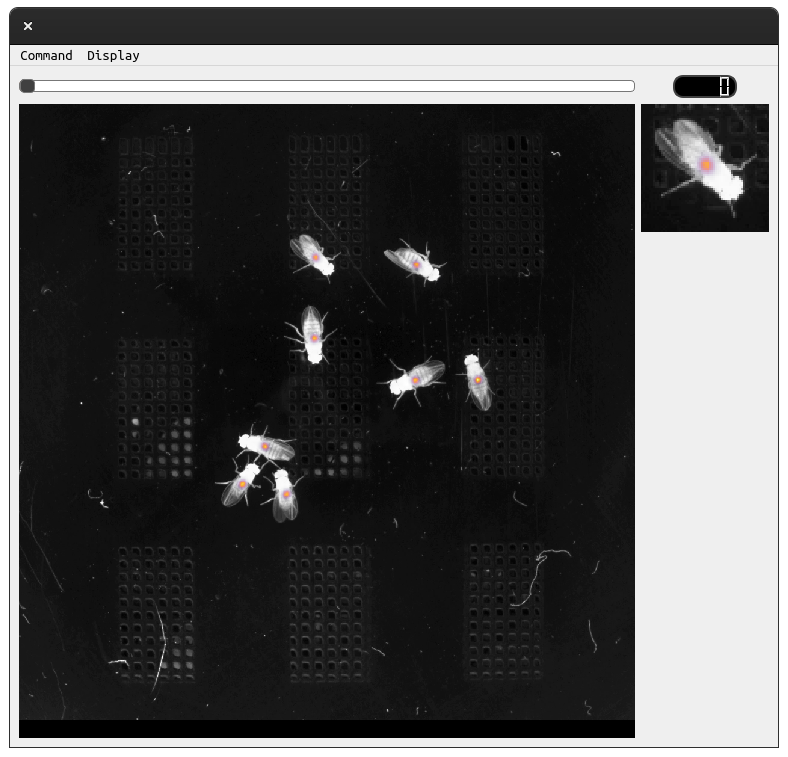
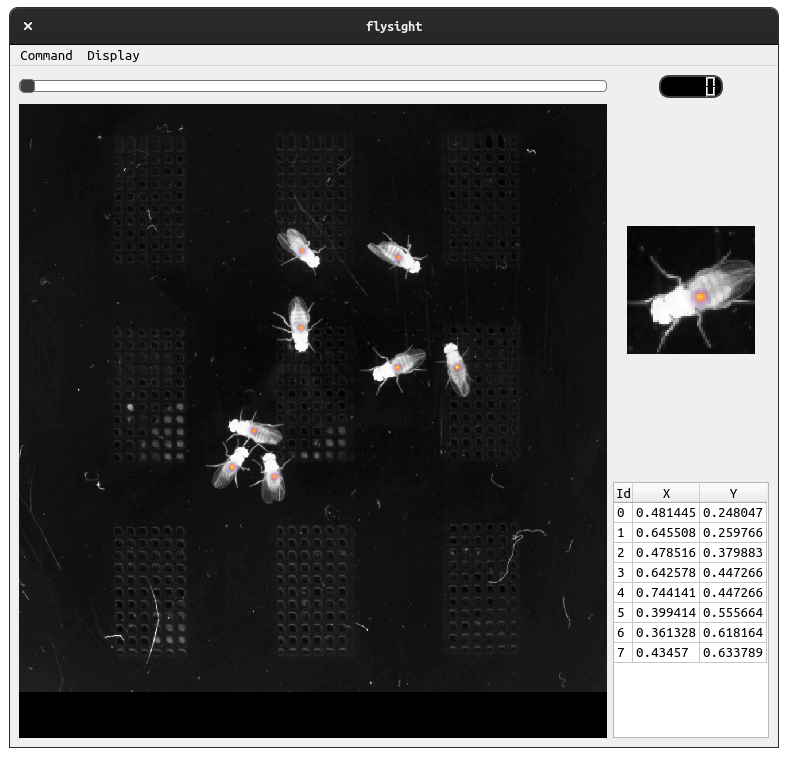
Reorg and many features.

diff --git a/flysight/client/main.py b/flysight/client/main.py
@@ -7,11 +7,16 @@ from PySide2 import (
         QtCore,
         QtGui,
         )
-from flytrack.config import Config
-from flytrack.client import Client
-from flytrack.client.display_main import DisplayMain
-from flytrack.client.display_zoom import DisplayZoom
-from flytrack.client.resource_loader import Resource
+from flysight.config import Config
+from flysight.client import Client
+from flysight.client.display_main import DisplayMain
+from flysight.client.display_zoom import DisplayZoom
+from flysight.client.display_table import (
+        TrackerTableView,
+        TrackerTableModel,
+        )
+from flysight.client.resource_loader import Resource
+
 
 
 class MainDisplay(QtWidgets.QMainWindow):
@@ -23,8 +28,6 @@ class MainDisplay(QtWidgets.QMainWindow):
     """
     def __init__(self, video=None):
         super().__init__()
-        if video:
-            self.load_video(video)
 
         self.frame_count  = 0
         self.frame_width  = 0
@@ -37,6 +40,9 @@ class MainDisplay(QtWidgets.QMainWindow):
 
         # Configure UI
         self.setup_ui()
+
+        if video:
+            self.load_video(video)
 
         # Initialize to frame 0.
         self.changed_frame_index()
@@ -61,6 +67,24 @@ class MainDisplay(QtWidgets.QMainWindow):
         # configure the layout.
         self.central = QtWidgets.QWidget(self)
         self.setCentralWidget(self.central)
+
+        # Layout organization:
+        #
+        # A - Slider
+        # B - LCD
+        # C - Main Display
+        # D - Zoom
+        # E - Tabular peak data.
+        #
+        # +---+---+---+
+        # | A  A  | B |
+        # +---+---+---+
+        # | C   C | D |
+        # +       +   |
+        # | C   C | E |
+        # +---+---+---+
+        #
+        # addWidget(... fromRow, fromColumn, rowSpan, columnSpan)
         self.layout = QtWidgets.QGridLayout(self.central)
 
         # {
@@ -70,17 +94,17 @@ class MainDisplay(QtWidgets.QMainWindow):
         self.slider.setOrientation(QtCore.Qt.Horizontal)
         self.slider.setMaximum(self.frame_count)
         self.slider.setSizePolicy(
-                QtWidgets.QSizePolicy(QtWidgets.QSizePolicy.Minimum,
-                                      QtWidgets.QSizePolicy.Minimum))
+                QtWidgets.QSizePolicy(QtWidgets.QSizePolicy.Expanding,
+                                      QtWidgets.QSizePolicy.Fixed))
         self.slider.setStyleSheet(Resource.Get('slider'))
-        self.layout.addWidget(self.slider, 0, 0, 1, 1)
+        self.layout.addWidget(self.slider, 0, 0, 1, 2)
 
         self.lcd = QtWidgets.QLCDNumber(self)
         self.lcd.setSizePolicy(
                 QtWidgets.QSizePolicy(QtWidgets.QSizePolicy.Fixed,
                                       QtWidgets.QSizePolicy.Fixed))
         self.lcd.setStyleSheet(Resource.Get('lcd'))
-        self.layout.addWidget(self.lcd, 0, 1, 1, 1,
+        self.layout.addWidget(self.lcd, 0, 2, 1, 1,
                               QtCore.Qt.AlignCenter)
 
         self.slider_blocked = False
@@ -121,13 +145,26 @@ class MainDisplay(QtWidgets.QMainWindow):
         self.zoom.setSizePolicy(
                 QtWidgets.QSizePolicy(QtWidgets.QSizePolicy.Fixed,
                                       QtWidgets.QSizePolicy.Fixed))
-        self.layout.addWidget(self.zoom, 1, 1, 1, 1, QtCore.Qt.AlignTop)
+        self.layout.addWidget(self.zoom, 1, 2, 1, 1, QtCore.Qt.AlignCenter)
 
         # Add the main display.
         self.display = \
                 DisplayMain(self, self.client, self.frame_width,
                             self.frame_height)
-        self.layout.addWidget(self.display, 1, 0, 1, 1)
+        self.layout.addWidget(self.display, 1, 0, 2, 2)
+
+        # {
+        # Add a table which is capable of displaying row/columns of the XY
+        # values for detected peaks.
+        table = TrackerTableView()
+        table.setSizePolicy(
+                QtWidgets.QSizePolicy(QtWidgets.QSizePolicy.Fixed,
+                                      QtWidgets.QSizePolicy.Fixed))
+        self.table_view = table
+        self.table = TrackerTableModel()
+        table.setModel(self.table)
+        self.layout.addWidget(table, 2, 2, 1, 1)
+        # }
 
         # {
         # Menu bar for the `Command` section.
@@ -186,6 +223,11 @@ class MainDisplay(QtWidgets.QMainWindow):
             print('Failed to read from video stream.')
         else:
             self.display.load_image(frame_idx, image)
+
+        # Load the peaks table.
+        self.table.load_data(list(enumerate(self.display.peaks)))
+        self.table_view.resizeColumnsToContents()
+        self.table_view.resizeRowsToContents()
 
     def update_zoom(self, image):
         """

diff --git a/flysight/client/display_table.py b/flysight/client/display_table.py
@@ -1,0 +1,133 @@
+from PySide2.QtCore import Qt, QAbstractTableModel, QModelIndex
+from PySide2.QtGui import QColor
+from PySide2 import (
+        QtWidgets,
+        QtCore,
+        QtGui,
+        )
+
+
+class TrackerTableView(QtWidgets.QTableView):
+    """
+    :class TrackerTableView:
+
+    Column/row table for displaying the peak detections.
+    """
+    def __init__(self, *args, **kwargs):
+        super().__init__(*args, **kwargs)
+
+        # We already have an ID column.
+        self.verticalHeader().hide()
+
+    def sizeHint(self):
+        return QtCore.QSize(156, 256)
+
+    def keyPressEvent(self, kp):
+        """
+        This implements the logic for copying data from the table to the
+        paste buffer as a CSV style paste.
+        """
+        if kp != QtGui.QKeySequence.Copy:
+            return
+
+        model = self.model()
+        data = {}
+        selection = self.selectionModel().selectedIndexes()
+
+        for item in selection:
+            row = item.row()
+            col = item.column()
+            data[(row, col)] = model.data(item)
+
+        # {
+        # This slightly convoluted implementation
+        line = []
+        lines = []
+        data = list(sorted(data.items()))
+        if not len(data):
+            return None
+
+        row = data[0][0][0]
+        for ((r, c), data) in data:
+            if r != row:
+                lines.append(','.join(map(str, line)))
+                line = []
+                row = r
+
+            line.append(data)
+        lines.append(','.join(map(str, line)))
+        # }
+
+        QtWidgets.QApplication.clipboard().setText('\n'.join(lines))
+
+
+class TrackerTableModel(QAbstractTableModel):
+    """
+    :class TrackerTableModel:
+
+    This implements the model class for a `QtWidgets.QTableView`.  The objective
+    is to have a minimally widthed 3 column table which can be copy/pasted into
+    an excel style program.
+
+    Columns are:
+        +----+---+---+
+        | Id | X | Y |
+        +----+---+---+
+
+    This is a display tool, actual identification association is not handled in
+    this tool.
+    """
+    Columns = ['Id', 'X', 'Y']
+
+    def __init__(self):
+        QAbstractTableModel.__init__(self)
+
+        self.col_count = len(self.Columns)
+        self.peaks = []
+
+    def load_data(self, peaks):
+        """
+        The peaks structure is of the format:
+            [(index, (x, y)), ...]
+        """
+        self.peaks = peaks
+        self.beginResetModel()
+        self.beginInsertRows(QtCore.QModelIndex(),
+                             0,
+                             self.rowCount())
+        self.endInsertRows()
+        self.endResetModel()
+
+    def rowCount(self, parent=QModelIndex()):
+        return len(self.peaks)
+
+    def columnCount(self, parent=QModelIndex()):
+        return self.col_count
+
+    def headerData(self, section, orientation, role):
+        if role == Qt.DisplayRole:
+            if orientation == Qt.Horizontal:
+                return self.Columns[section]
+            else:
+                return "{}".format(section)
+
+    def flags(self, index):
+        return QtCore.Qt.ItemIsEditable     \
+             | QtCore.Qt.ItemIsEnabled      \
+             | QtCore.Qt.ItemIsSelectable
+
+    def data(self, index, role=Qt.DisplayRole):
+        col = index.column()
+        row = index.row()
+
+        if role != Qt.DisplayRole:
+            return
+
+        r = self.peaks[row]
+        if col == 0:
+            val = r[0]
+        else:
+            val = r[1][col - 1]
+
+        return val
+

diff --git a/setup.py b/setup.py
@@ -1,7 +1,7 @@
 import setuptools
 
 setuptools.setup(
-    name='flytrack',
+    name='flysight',
     version="0.0.1",
     author='CjHanks',
     author_email="web@cjhanks.name",
@@ -23,16 +23,16 @@ setuptools.setup(
         'tensorflow==2.3.0',
     ],
     entry_points = {
-        'console_scripts': ['flytrack=flytrack.run:main'],
+        'console_scripts': ['flysight=flysight.run:main'],
     },
     data_files=[
 
-        ('flytrack', [
-            'flytrack/config.yml'
+        ('flysight', [
+            'flysight/config.yml'
         ]),
-        ('flytrack/client/resource',    [
-            'flytrack/client/resource/lcd.css',
-            'flytrack/client/resource/slider.css'
+        ('flysight/client/resource',    [
+            'flysight/client/resource/lcd.css',
+            'flysight/client/resource/slider.css'
         ]),
     ],
     python_requires='>=3.6',

diff --git a/flysight/server/main.py b/flysight/server/main.py
@@ -4,14 +4,14 @@ This file is responsible for implementing a server side `main` function.
 import numpy as np
 import tensorflow as tf
 import zmq
-from flytrack.config import Config
-from flytrack.message_pb2 import (
+from flysight.config import Config
+from flysight.message_pb2 import (
         Request,
         RepTracking,
         ReqDetections,
         RepDetections,
         )
-from flytrack.server.solver import FlyCentroidDetector
+from flysight.server.solver import FlyCentroidDetector
 
 
 def main():

diff --git a/flysight/run.py b/flysight/run.py
@@ -1,9 +1,9 @@
 from argparse import ArgumentParser
 from multiprocessing import Process
 from os.path import dirname, join
-from flytrack.config import Config
-from flytrack.client.main import main as client_main
-from flytrack.server.main import main as server_main
+from flysight.config import Config
+from flysight.client.main import main as client_main
+from flysight.server.main import main as server_main
 
 
 def main(argv=None):

diff --git a/flysight/client/display_main.py b/flysight/client/display_main.py
@@ -1,6 +1,6 @@
 import numpy as np
 from matplotlib import cm
-from flytrack.client.display_zoom import DisplayZoom
+from flysight.client.display_zoom import DisplayZoom
 from PySide2 import (
         QtWidgets,
         QtCore,

diff --git a/flysight/client/client.py b/flysight/client/client.py
@@ -1,6 +1,6 @@
 import numpy as np
 import zmq
-from flytrack.message_pb2 import (
+from flysight.message_pb2 import (
         Request,
         RepDetections,
         RepTracking,

diff --git a/flysight/server/solver.py b/flysight/server/solver.py
@@ -1,6 +1,6 @@
 import numpy as np
 import tensorflow as tf
-from flytrack.config import Config
+from flysight.config import Config
 
 
 class FlyCentroidDetector:
